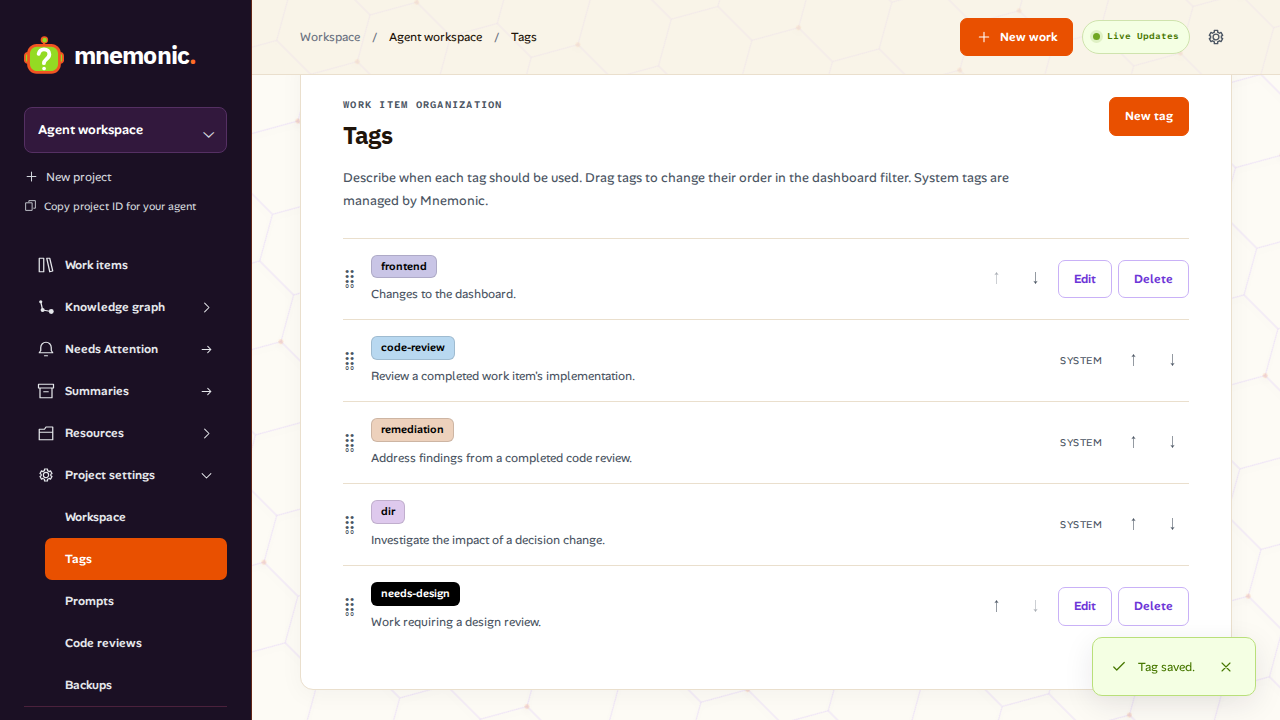
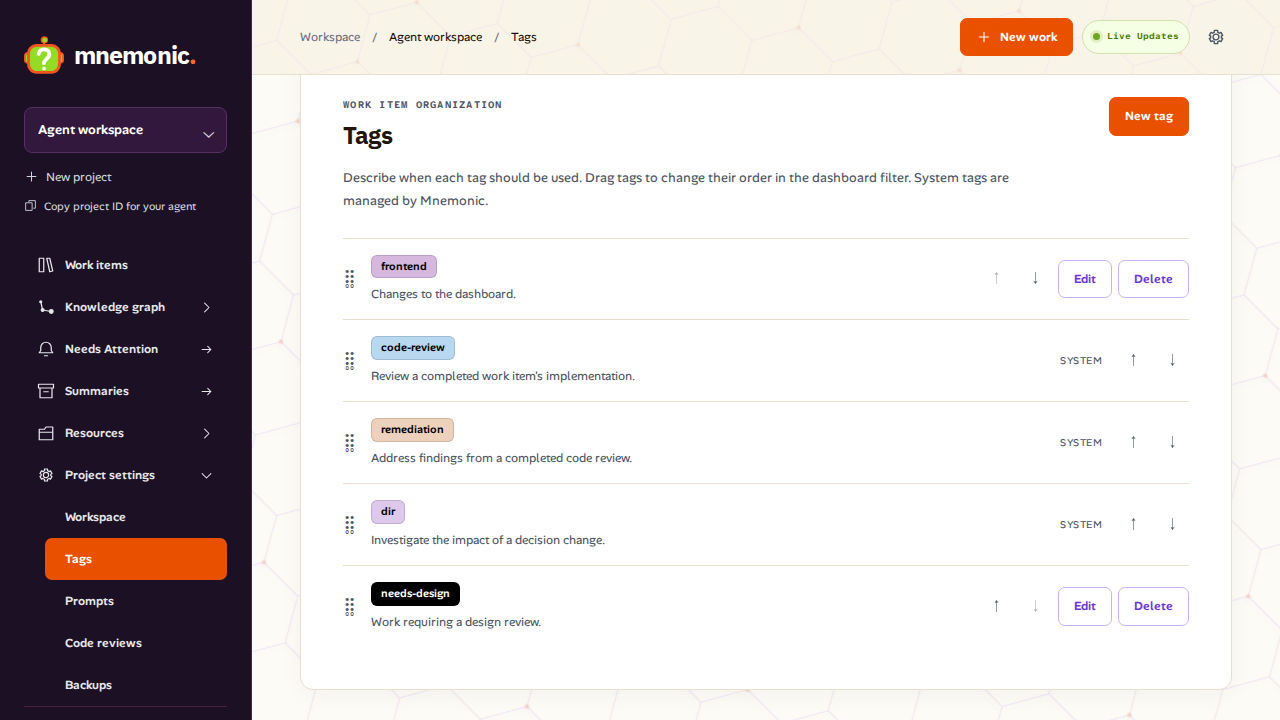
Record final tag browser acceptance

Changed region(s): [[0.8438, 0.8861, 0.9688, 0.9778]]

diff --git a/frontend/tests/e2e/phase3-work-graph.spec.ts b/frontend/tests/e2e/phase3-work-graph.spec.ts
@@ -245,7 +245,7 @@ test("hierarchy navigation and the relationship editor preserve graph semantics"
     const discoveredGraph = await openTab(discoveredPane, "Graph");
     await expect(discoveredGraph.getByRole("region", { name: "Discovered from" })).toContainText(titles.discoveryRoot);
     await closeDetail(page);
-    await expect(page.locator(".result-count")).toContainText("root branch");
+    await expect(page.locator(".result-count")).toContainText("work items");
 
     const rootAggregates = descendantChip(rootCard);
     await expect(rootAggregates).toHaveText("2 descendants");
@@ -290,7 +290,7 @@ test("hierarchy navigation and the relationship editor preserve graph semantics"
     // Collapsing and re-expanding a branch refetches only that branch's children;
     // the root queue and its settled total stay untouched.
     const resultCount = page.locator(".result-count");
-    await expect(resultCount).toContainText("root branch");
+    await expect(resultCount).toContainText("work items");
     const rootCount = await resultCount.innerText();
     await page.getByRole("button", { name: `Collapse children of ${titles.child}` }).click();
     await expect(grandchildCard).toHaveCount(0);

diff --git a/frontend/tests/e2e/work-library-surface.spec.ts b/frontend/tests/e2e/work-library-surface.spec.ts
@@ -1490,7 +1490,7 @@ test("tag filters replace the retired panel while duplicate navigation keeps its
     const source = await createWork(client, { title: `Filter alias ${token}`, sessionId: `surface-filters-${key}-alias` });
     const destination = await createWork(client, { title: `Filter canonical ${token}`, sessionId: `surface-filters-${key}-root` });
     await mergeDirect(client, source.id, destination.id, `Merged outside the browser for ${key}.`, `surface-filters-${key}`);
-    await page.goto(`/work-items?work=${source.id}`);
+    await page.goto(`/work-items?project=${state.projectId}&work=${source.id}`);
     await expect(workPane(page).locator(".duplicate-audit-panel")).toBeVisible();
     await workPane(page).getByRole("button", { name: "View duplicate group" }).click();
     await expect(page.locator(".work-detail-pane.is-open")).toHaveCount(0);

diff --git a/frontend/tests/e2e/core-query.spec.ts b/frontend/tests/e2e/core-query.spec.ts
@@ -223,7 +223,7 @@ test("changing and clearing work search cancels the old query without replacing 
     await expect.poll(() => held!.released).toBe(true);
     await expect(search).toHaveValue("");
     await expect(page.locator(".hierarchy-node[data-depth='0']")).toHaveCount(2);
-    await expect(page.locator(".result-count")).toHaveText("2 root branches");
+    await expect(page.locator(".result-count")).toHaveText("2 work items");
     await expect(page.locator(".work-queue [role=alert]")).toHaveCount(0);
   } finally {
     held?.release();

diff --git a/frontend/tests/e2e/dark-theme-contrast.spec.ts b/frontend/tests/e2e/dark-theme-contrast.spec.ts
@@ -75,7 +75,7 @@ const contrastFixture = `
     </section>
     <section class="work-surface">
       <div class="work-queue">
-        <div class="work-queue-header"><span class="result-count">3 root branches</span>
+        <div class="work-queue-header"><span class="result-count">3 work items</span>
           <span class="work-queue-sort">Sorted by last activity</span></div>
         <div class="work-queue-viewport">
           <div class="work-queue-list" role="listbox">
